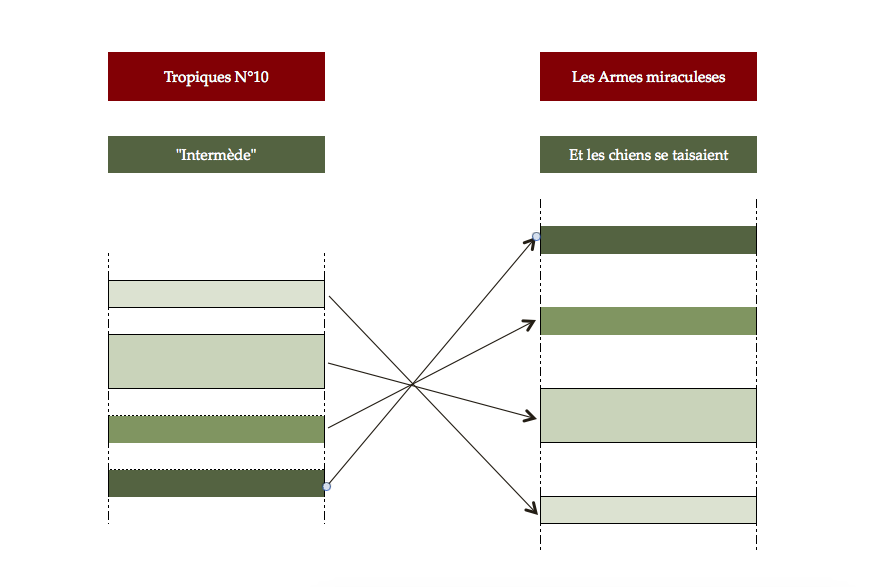
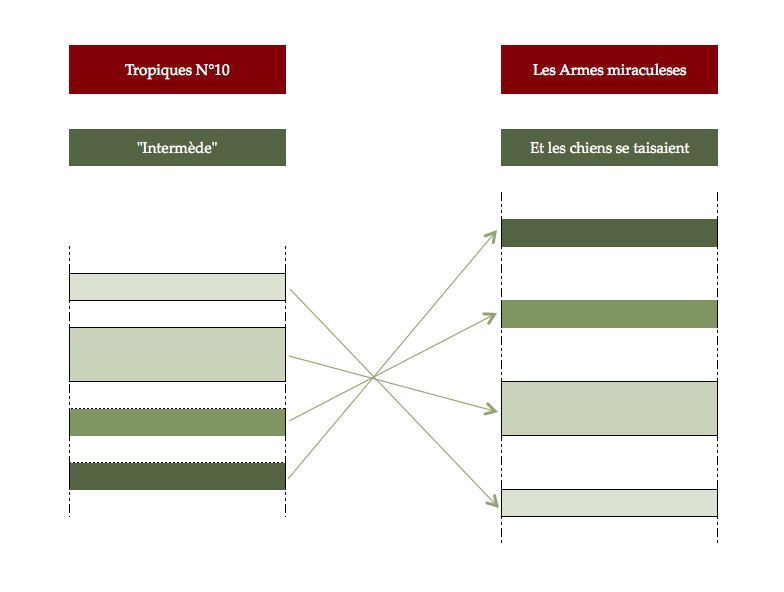
final touches before seminar

diff --git a/_chapters/03-assimilate.md b/_chapters/03-assimilate.md
@@ -89,7 +89,7 @@ Nothing in the journal indicates that copyright was respected by the editors, wh
 
 As we will soon see, this “culture of reprint” will be accompanied by acute self-awareness of the geographically distributed and non-overlapping audiences which fostered the use of recycled material, with important implications for Césaire’s writing and its genesis. The "culture of reprint" also provides the ideal editorial environment for us to model and address textual blocks (whether they are bibliographic units or fragments) on a network of geo-temporal relations and localities.
 
-The debut proper of *Tropiques* on the international stage must be dated as far back as André Breton’s encounter with the first issue of the journal in a store owned by René Ménil’s sister early in 1941. In all probability, Breton carried with him copies of the journal with him to New York. The first direct evidence that the journal is making the rounds in New York, however, comes from an article by surrealist poet Nicolas Calas in the 1941 October-November issue of *View*. We learn of its existence from Rosemont and Kelley’s anthology, *Black Brown & Beige: Surrealist Writings from Africa and the Diaspora*. Here’s the relevant passage reprinted from the latter:
+The debut proper of *Tropiques* on the international stage must be dated as far back as André Breton’s encounter with the first issue of the journal in a store owned by René Ménil’s sister early in 1941. In all probability, Breton carried with him copies of the journal with him to New York, along with the well documented copy of the *Cahier*. The first direct evidence that the journal is making the rounds in New York, however, comes from an article by surrealist poet Nicolas Calas in the 1941 October-November issue of *View*. We learn of its existence from Rosemont and Kelley’s anthology, *Black Brown & Beige: Surrealist Writings from Africa and the Diaspora*. Here’s the relevant passage reprinted from the latter:
 
 > When the detestable writings of so many famous authors of our day will have been forgotten and when critics and poets will begin to look for the creative writing of the war period, they will then dig out and reprint, with all the honors due to them, the early numbers of *Tropiques*. I know of no review which can boast of the high quality of this small quarterly French review of Martinique. The fact that such a review can be published is enough to put to shame those artists and poets who today feel discouraged and abandon all struggle, either because the public is not interested in their work, or because they are afraid of the political consequences of their efforts. It is difficult to imagine that conditions anywhere outside Nazi-dominated Europe could be worse than they are in the Vichy colony of Martinique; as to the cultural conditions of a colony that France has always neglected, from all one hears they are abominable. Yet, Aristide Maugée does not hesitate to defend in *Tropiques* the case of obscurity in poetry, in an article which we hope someday to see published in English. René Ménil writes about “Directions in Poetry,” a most inspired and inspiring article, while Aimé Césaire published a fragment of an admirable poem. (62)
 
@@ -107,11 +107,11 @@ The loose network continued for the duration of the war and dissipated only afte
 
 While the internationalism of the surrealist publications in pre-war France was indeed inclusive, the new internationalism involved direct collaboration with local editorial traditions in several continents. As a result, several of the publications that will provide a home for Césaire’s material outside of *Tropiques* were bilingual (to varying degrees) and contained contributions from local and international authors: *VVV, Lettres Françaises, Hémisphères*, etc. In order to sustain the project of a France outside of France, these publications engaged in promotional work for each other. Exchanges consisted of advertisements, reviews of articles and whole issues, distribution of copies through the post, and more importantly, reprints and originals from writers affiliated to different editorial geographies. The result is perhaps captured by Juan Suárez’s description of *View,*[^15] “a jumble of disordered fragments: articles, interviews, illustrations, reviews, book notices, and reports from the literary and art worlds” ([“View”](http://www.miscelaneajournal.net/images/stories/articulos/vol18/suarez18.pdf)).
 
-In contrast to an editorial center, where a reprint could be easily recognized by a shared audience, the decentralization of the war period generated several editorial blind spots, where a reprint was for all intents and purposes new to different audiences. This situation increases the number and varieties of fragmentation because authors and publishing ventures tended to adapt existing material to the needs of those non-overlapping audiences.[^16]
+In contrast to an editorial center, where a reprint could be easily recognized by a shared audience, the decentralization of the war period generated several editorial blind spots, where a reprint was for all intents and purposes new to different audiences. This situation increases the number and varieties of fragmentation because authors and publishing ventures tended to adapt existing material to the needs of those non-overlapping audiences.[^16] 
 
 In the absence of enforceable laws or a recognizable protocol, the practice of reprinting was also accompanied by apprehension about where and how texts were reprinted. When Roger Caillois reviews the *Fontaine* N°35 versions of “Un grand poète noir” and “Batouque” for *Lettres françaises* N°15, he complains that the editors of that journal were defrauding their audiences by claiming that “*La revue ne publie que de l’inédit*”[^17] (58). Along the same lines, when Breton (twice) expresses his regret to Goll that he allowed him to publish “Un grand poète noir” in *Hémisphères* N°2-3, he does so because he did not deem it the right venue, and as he (falsely) claims, because it had been published earlier in *Lettres françaises* (Letter 3 Feb. 1944). Interestingly enough, all the Césaire poems published in *VVV* were original, while all the ones published in *Hémisphères* were reprints. Though in principle Breton was not against others reprinting his works, he was careful to print only original work in his venue. Césaire will navigate these divergent editorial attitudes expertly, always informing Breton of the publication status of the texts he sends him.
 
-We must keep these dynamics in mind when we look at the two main strategies behind the *Tropiques* efforts to reach an audience beyond its colonial borders, both exemplified in the letter from Suzanne: a) shipping copies of the journal to various potential allies; and b) printing and reprinting works by living writers, surrealists or not, outside of their immediate circle.
+We must keep these dynamics in mind when we look at the two main strategies behind the *Tropiques* efforts to reach an audience beyond its colonial borders, both exemplified in the letter from Suzanne: a) shipping copies of the journal to various potential allies; and b) printing and reprinting works by living writers, surrealists or not, outside of their immediate circle. That such an astute and broad strategy was used by the young couple should not come as a surprise. As Kora Véron argues convincingly in "Césaire at the Crossroads in Haiti"[^kv2] Césaire disseminated his texts through more than one network: "In addition to Breton, who maintained his network of surrealists from his apartment in New York, two other networks contributed to Césaire’s higher profile in the world of letters." (430) Véron counts three, I count many others that did not yield ripe fruit.
 
 Besides Suzanne’s article, issue N°3 includes poems by Jéanne Megnen, then married to Pierre Mabille, author of the influential “Mirroir du merveilleux.” In fact, Suzanne informs Breton on the same letter that they had received “*des poèmes de Jeanne Mégnen, un texte de Pierre Mabille*,” but “*Les poèmes seuls ont pu paraître dans Tropiques*”[^18] (Letter 21 Oct. 1941). We don’t know exactly how Césaire and the couple were first introduced. Most likely, this happened through the auspices of either Breton or Lam, who both knew Mabille before the war, and who both had a chance to reacquaint themselves with him in Guadeloupe, after they left Martinique in May of 1941, on their way to their different war-time destinations.
 
@@ -166,9 +166,13 @@ Raymond Queneau had met Césaire while the latter was working with *Volontés* t
 
 Undoubtedly, the different conditions of publication and the new collaborator will allow for a new arrangement of the poems, a difference that is evident when we compare the published version with the *Tombeau* and *Colombes* documents. Furthermore, the last minute instability of the collection demonstrates one of the points I’ve argued above: we should not take for granted any internal coherence between the text of *Et les chiens se taisaient* and the rest of the poems in *Les Armes miraculeuses*. The rest of the genetic portfolio also recommends we should proceed with caution. From their early beginnings until the end result, the poems belonging to *Les Armes miraculeuses* are kept separate from the text belonging to *Et les chiens se taisaient*. If the poems would have been published with the *Cahier d’un retour au pays natal* as Breton originally envisioned, we would be arguing for their internal coherence as well. This is not to say that both sets of texts, the poems and the drama, do not bear the mark of shared editorial horizons and poetic imaginaries.
 
-One of the striking features of the arrangement of poems in the Gallimard edition in relation to the relative arrangement of everything that precedes it is the seeming lack of continuity between the two. At first, everything seems to have been rearranged. However, careful analysis reveals the intimation of a pattern. If all the fragments combined were a deck of cards, we could say that the contents of *Tombeau du soleil* and *Colombes et menfenils* have been shuffled once. The two original sequences remain almost intact as they become enmeshed in each other. While we can claim that the new collection undoes the contiguities of the *Tombeau* and *Colombes* assemblages, the new collection preserves their original sequences almost intact.
+One of the striking features of the arrangement of poems in the Gallimard edition in relation to the relative arrangement of everything that precedes it is the seeming lack of continuity between the two. At first, everything seems to have been rearranged. However, careful analysis reveals the intimation of a pattern. If all the fragments combined were a deck of cards, we could say that the contents of *Tombeau du soleil* and *Colombes et menfenils* have been shuffled once. The two original sequences remain almost intact as they become enmeshed in each other. While we can claim that the new collection undoes the contiguities of the *Tombeau* and *Colombes* assemblages, the new collection preserves their original sequences almost intact. *Figure r* below represents this shuffle as a legogram. (Click for the full graph).
 
-[insert legogram figure r ]
+{% include image.html
+    img="fig-r.png"
+    full="fig-r-full.png"
+    title="shuffled once"
+    caption="figure r \| shuffled" %}
 
 We saw a similar pattern in the composition history of *Acte III* in [Chapter 2]({{site.baseurl}}/chapters/02-pencil/), and we will see a similar pattern in Jahn's construction of *Acte II* later on. The rearrangement of the blocks of text from the Saint-Dié typescript to *Les Armes miraculeuses* undergo a similar shuffling of the deck, and in a way, the 1946 drama can be retrospectively read as a collection of poems itself.
 
@@ -213,7 +217,7 @@ Although we might be inclined to read this passage by Breton as a softening of h
 
 Before he met him, Césaire tells Breton he was a prisoner of reality, of the *Cahier*, of his "*thème*." Now Césaire thanks Breton for the solution: "*Se laisser parler. Se laisser envahir par ses rêves. Se laisser dominer par ses images. Il n'était plus question de « thèse », ni de « thème ». Il s'agissait tout simplement d'oser la vie, toute la vie*."[^76] Césaire, as Breton above, does not forsake the "thesis" or the "theme," as much as he sidesteps historical references for a poetic praxis that is beholden solely to life, imagined as an inclusive totality—the very *vie* that has consistently marked the content of *Tropiques* (*figure q*). This new proviso allows for history to play a role in a "revolutionary poetics" insofar as the artist rescues it from its proper place, not exiled to the archive and history books where we find matches for the deleted n-grams, but there, where *it* totters over the gulf: a collective pre-conscious—literally with you at all times—in perennial danger of being permanently repressed, which in this framework amounts to death.
 
-Under the aegis of his renewed vows to Breton and surrealism, Césaire asks him to consider the Saint-Dié typescript only as a canvas:
+Under the aegis of his renewed vows to Breton and surrealism, Césaire asks him to consider the Saint-Dié typescript only as a canvas[^kv1]:
 
 > *Né sous Vichy, écrit contre Vichy, au plus fort du racisme blanc et du cléricalisme, au plus fort de la démission nègre, cette œuvre n'est pas sans porter assez désagréablement la marque de ces circonstances.* 
 >
@@ -223,9 +227,9 @@ Under the aegis of his renewed vows to Breton and surrealism, Césaire asks him 
 >
 > *2°) ce canevas doit être complété et modifié. Corrigé dans le sens d'une plus grande liberté. En particulier la part de l'histoire, ou de « l'historicité » déjà passablement réduite, doit être éliminée à peu près complètement. Vous en jugerez vous-même par les « corrections » que je vous fais tenir par le même courrier.*[^77] (Letter 4 Apr. 1944)
 
-If we take seriously Césaire's endorsement of Breton's accommodation with the dreaded "*thème*," we can read Césaire's equation—historicity as bondage—as a move towards the freedom of embodied dreamscapes, and by extension to a new surrealism that now takes for granted the living past of the black diaspora—after all, what is surreal to white audiences might as well be real to everyone else. We're glad, though, that Césaire outgrew this fragile switch and returned to historical reference later on in his writings, since we probably should reclaim the paper trail along with our bodies and time.
+If we take seriously Césaire's endorsement of Breton's accommodation with the dreaded "*thème*," we can read Césaire's equation—historicity as bondage—as a move towards the freedom of embodied myth, and by extension to a new surrealism that now takes for granted the living past of the black diaspora—after all, what is surreal to white audiences might as well be real to everyone else. We're glad, though, that Césaire outgrew this fragile switch and returned to historical reference later on in his writings, since we probably should reclaim the paper trail along with our bodies and time.
 
-In the same breath, Césaire acknowledges in many ways what I argue here. He is the first to admit that the text he sends bears "the mark of its circumstances." By implication, Césaire casts the role of historical reference in the work as a reaction to colonial conditions, while a more exalted freedom can best be found in a fugitive act of migration and deletion: A copy of the text is freed from the colony by post and a set of corrections will free it from history. 
+In the same breath, Césaire acknowledges in many ways what I argue here. He is the first to admit that the text he sends bears "the mark of its circumstances." By implication, Césaire casts the role of historical reference in the work as a reaction to colonial conditions, while a more exalted freedom can best be found in a fugitive act of migration and deletion: A copy of the text is freed from the colony by post and a set of corrections will free it from history.
 
 Read bibliographically: To achieve these emancipatory poetic ambitions, stage directions had to blend with the poetry, the identity of speakers had to be confounded, textual sequence had to resist linear history, etc. Blocks of text were dislodged from one context to adapt to another without allegiance. The incredible fragmentation and reorganization that led to the 1946 text could not but generate the oneiric effect, which was there only *in potentia* in the typescript. In other words, the cutting and pasting at the material level, becomes not the result of, but Césaire's dreamwork itself—and as I suspect, the dreamwork of all textuality, history books included.
 
@@ -277,9 +281,9 @@ The introduction of the incantation "*ô morts*" succeeds in binding the fragmen
 
 The appeal for an audience coming out of World War II, for which the fragment is adapted, can be imagined. Césaire has already begun publishing in Paris, "Batouque" in *Fontaine* N°35 and "Le Grand-Midi" in *Confluences* N°6 to be specific. Following the same logic that made his earlier texts available for reprint, this new text has the potential to be well received by the mourning, hopeful, vulnerable public of post-Liberation France. The reading also confirms that the surrealist agenda that would divorce poetry from historical reference—by bracketing it in the dream world—becomes reabsorbed by the historical conditions of its appearance. The text adapts despite itself.
 
-The reorganization of the fragments around one recurrent word is, of course, a brilliant poetic and editorial feat. Césaire’s use of anaphora and epistrophe has generated many fruitful debates over the years. Nevertheless, these debates have concentrated for the most part on what Zadi-Zaourou would call symbolic and rhythmic functions. Zadi-Zaourou, for instance, finds an affinity between Césaire’s use of repetition and *négro-africaine* oral forms (169-175). James Arnold, on the other hand, argues that the connection must be drawn to print predecessors, in particular, to the Christian-socialist poet Charles Péguy (“Beyond” 264). Though order of composition does not belie or support any of these assessments, repetition clearly served an editorial function in addition to any purported symbolic or rhythmic function. In enough cases to give us pause, poetic segments were bound together by repetition *after they were individually composed*. Seen from a bibliographical point of view, the spontaneity of the Césairean “cry” must give way to the chirurgical pedantry of mark-up.
+The reorganization of the fragments around one recurrent word is, of course, a brilliant poetic and editorial feat. Césaire’s use of anaphora and epistrophe has generated many fruitful debates over the years. Nevertheless, these debates have concentrated for the most part on what Zadi-Zaourou would call symbolic and rhythmic functions. Zadi-Zaourou, for instance, finds an affinity between Césaire’s use of repetition and *négro-africaine* oral forms (169-175). James Arnold, on the other hand, argues that the connection must be drawn to print predecessors, in particular, to the Christian-socialist poet Charles Péguy (“Beyond” 264). Though order of composition does not belie or support any of these assessments, repetition clearly served an editorial function in addition to any purported symbolic or rhythmic function. In enough cases to give us pause, poetic segments were bound together by repetition *after they were individually composed*. Seen from a bibliographical point of view, the spontaneity of the Césairean “cry” must give way to the surgical pedantry of mark-up.
 
-The maneuver, to join together while marking the original boundaries of blocks of text—a perfect image of the topological fields opened up by *assimilarity*—, will resurface in many different guises in the other 70+ transpositions from the typescript to the 1946 edition, or the 90+ transpositions from the 1946 edition to the Jahn texts. In chapter 5 we explore this conversation that text has with itself, away from the historical and geographical considerations of this chapter, to study, at the most inhuman, abstract level, the topological fields traced by migrant allography. In the next we prepare ourselves for such cold imaginaries with a small divertimento: the tale of the High Noon ghost.
+The maneuver, to join together while marking the original boundaries of blocks of text—a perfect image of the topological fields opened up by migrant textuality—, will resurface in many different guises in the other 70+ transpositions from the typescript to the 1946 edition, or the 90+ transpositions from the 1946 edition to the Jahn texts. In chapter 5 we explore this conversation that text has with itself, away from the historical and geographical considerations of this chapter, to study, at the most inhuman, abstract level, the topology of all text. In the next we prepare ourselves for such cold imaginaries with an earthy divertimento: the tale of the High Noon ghost.
 
 ---
 
@@ -296,7 +300,7 @@ The maneuver, to join together while marking the original boundaries of blocks o
 
 [^9]: \[Only we can express that which makes us unique. If we strive to be more than mere spectators of the human adventure, if we believe that we must make a personal offering simply to participate in a true humanity, if we are convinced that it is not to comprehend, but to make what really matters, we know what is our task, and what way leads to its realization.\]
 
-[^n1]: A most provocative thesis of the performance of authenticity through the voice in Césaire's work can be found in the first two chapters of Noland, Carrie. *Voices of Négritude in Modernist Print." Columbia University Press. 2015
+[^n1]: For a recent, and superbly executed analysis of the relationship between authenticity and the print-mediated voice of Négritude writers, see Noland, Carrie. *Voices of Négritude in Modernist Print." Columbia University Press. 2015. This excellent book serves in many cases as the prelude for many of my observations, and is the best sustained study linking the medium itself to questions of identity, language, and the self in Césaire's work.
 
 [^10]: \[But in doing so, my heart, preserve me from all hate/do not turn me into the hateful man for whom/I have nothing but hate.\]
 
@@ -313,6 +317,8 @@ The maneuver, to join together while marking the original boundaries of blocks o
 [^16]: Computer generated geo-temporal visualizations should help us visualize these relations in the near future.
 
 [^17]: \[This revue only publishes original work\]
+
+[^kv2]: Véron, Kora. "Césaire at the Crossroads in Haiti: Correspondence with Henri Seyrig" Comparative Literature Studies, Vol. 50, No. 3 (2013), pp. 430-444
 
 [^18]: \[poems from Jeanne Mégnem and a text from Pierre Mabille, but only the poems could be published in *Tropiques*.\]
 
@@ -381,6 +387,11 @@ The maneuver, to join together while marking the original boundaries of blocks o
 	2\) This canvas must be completed and modified. Corrected in the sense of a greater freedom. In particular, the history part, or its “historicity,” already reduced substantially, should be eliminated completely. You will judge yourself by the “corrections” that I send to you with this letter.\] 
 
 	N.B. I have not been able to establish what these “corrections” consist of. The fact that Césaire uses scare quotes for the word corrections suggests to me that Césaire sent a reworked passage, and not a list of actual corrections.
+
+[^kv1]: 
+	Kora Véron reports in "Césaire at the Crossroads in Haiti: Correspondence with Henri Seyrig," that Césaire expressed similar sentiments to Henri Seyrig in a letter dated July 16, 1944: 
+
+	> Malgré les nombreuses modifications, ma tentative reste encore trop d’ordre historique. Et c’est stupide. Dans mon esprit, elle ne peut être valable que si je la situe hardiment sur le plan du mythe. J’ai vraiment honte de vous avoir confié ma petite machine . . . 
 
 [^78]: \[News on the scene: Upcoming works by Aimé Césaire.\]
 

diff --git a/_chapters/02-pencil.md b/_chapters/02-pencil.md
@@ -442,3 +442,5 @@ In the next chapters we will study Césaire's migrant textuality prior to the fi
 [^67]: [That which belongs to me: some thousand morbidities that spin inside the island gourd; and that which belongs to me: the arched archipelago like the disquieted desire to negate yourself ... and the flanks secreting towards Europe the good liquor of a Gulf Stream, one of them the incandescence by which the Equator tightropes towards Africa.]; from Césaire, Aimé. “Cahier d’un retour au pays natal.” Volontés 20 (1939): 23–51. Print. 
 
 [^68]: bell hooks provides the primer here in, hooks, bell “Eating the Other: Desire and Resistance,” in Black Looks: Race and Representation (Boston: South End, 1992), 21–39.
+
+[^n3]: Noland, Carrie. *Voices of Négritude in Modernist Print." Columbia University Press. 2015 (72)
